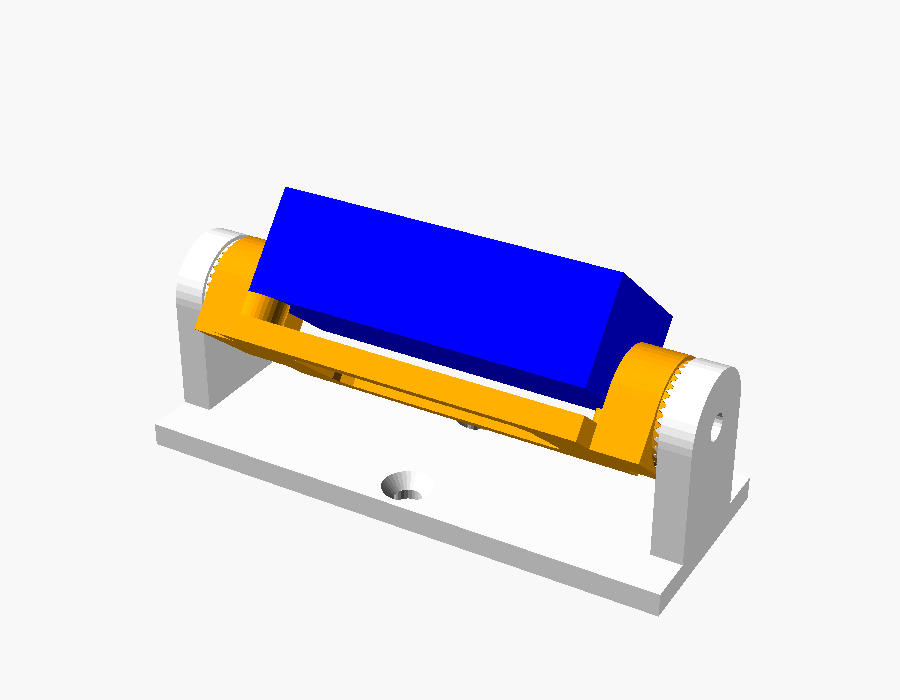
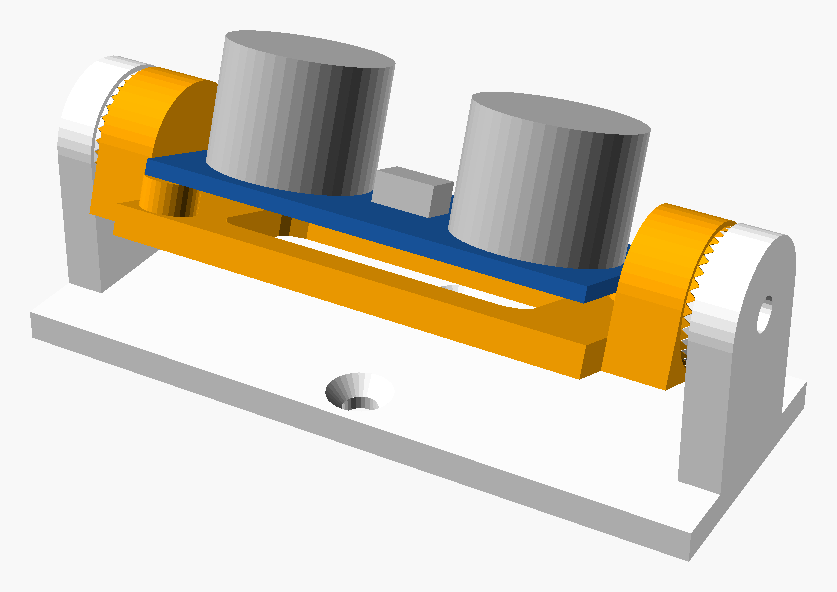
soportes sensores: README ES/EN with mounted, angle and print-orientation renders, hardware and assembly; main README links the mounts

diff --git a/hardware/soportes_sensores/README_es.md b/hardware/soportes_sensores/README_es.md
@@ -1,0 +1,76 @@
+# Soportes orientables para HC-SR04 y VL53L0X
+
+*In English: [README.md](README.md)*
+
+Soportes para fijar los sensores de ROS2D2 (5 HC-SR04 y 4 VL53L0X) al R2, en el faldón o en las patas,
+y poder **inclinar cada sensor después de montado**. Cada soporte son dos piezas: una **base** plana
+que se atornilla al R2 y una **cuna** que sujeta el sensor y gira entre las dos orejas de la base.
+
+| HC-SR04 | VL53L0X (GY-VL53L0XV2) |
+|---|---|
+| ![HC-SR04 montado](renders/montado_hc.png) | ![VL53L0X montado](renders/montado_vl.png) |
+
+## Cómo se orienta
+
+El eje es un tornillo M3 por cada lado, que pasa por la oreja y rosca en un inserto de la cuna. La oreja
+y la cuna tienen **dientes radiales** que encajan entre sí: el ángulo va a saltos de **10°**, de
+**−30° a +90°**, y no resbala con las vibraciones. Para cambiarlo, afloja los dos tornillos, gira la cuna
+y vuelve a apretar.
+
+- **0°**: el sensor mira de frente, perpendicular a la base.
+- **+90°**: el sensor queda paralelo a la base.
+- En todo el rango la cuna y el sensor no tocan la base.
+
+![Ángulos −30°, 0°, 45° y 90° (HC-SR04)](renders/angulos_hc.png)
+
+![Ángulos −30°, 0°, 45° y 90° (VL53L0X)](renders/angulos_vl.png)
+
+## Piezas
+
+| STL | Qué es | Cómo imprimir |
+|---|---|---|
+| `stl/base_hc.stl` | base del HC-SR04 (69,8 × 26,4 mm) | placa sobre la cama, orejas hacia arriba |
+| `stl/cuna_hc.stl` | cuna del HC-SR04 | placa sobre la cama |
+| `stl/base_vl.stl` | base del VL53L0X (49,8 × 26,4 mm) | placa sobre la cama, orejas hacia arriba |
+| `stl/cuna_vl.stl` | cuna del VL53L0X | placa sobre la cama |
+
+PETG, capa de 0,2 mm, boquilla de 0,4, sin soportes. Para los 9 sensores: 5 juegos `_hc` y 4 juegos `_vl`.
+
+| HC-SR04 | VL53L0X |
+|---|---|
+| ![Piezas HC-SR04](renders/piezas_hc.png) | ![Piezas VL53L0X](renders/piezas_vl.png) |
+
+## Tornillería (por soporte)
+
+| | HC-SR04 | VL53L0X |
+|---|---|---|
+| Eje | 2 × M3 × 10 + 2 insertos M3 en la cuna | 2 × M3 × 10 + 2 insertos M3 en la cuna |
+| Sensor a la cuna | 2 × M2 × 5 + 2 insertos M2 | 2 × M3 × 6 + 2 insertos M3 |
+| Base al R2 | 2 × M3 avellanados (largo según la superficie) | 2 × M3 avellanados |
+
+Los dos agujeros de la base están a 18 mm entre centros. El HC-SR04 va con los transductores hacia fuera y
+los pines por el borde de abajo; la cuna tiene una ventana para los componentes y los pines de detrás de
+la placa.
+
+## Montaje
+
+1. Mete los insertos con el soldador: los dos M3 de los laterales de la cuna (el eje) y los dos del sensor.
+2. Atornilla el sensor a la cuna.
+3. Atornilla la base al R2 con los dos M3 avellanados.
+4. Pon la cuna entre las orejas con los dientes encajados en el ángulo que quieras y mete los dos M3 × 10
+   del eje. Aprieta lo justo para que los dientes no salten.
+
+## Estado
+
+Diseño comprobado en el modelo (sin choques de −30° a +90°, dientes encajados en cada paso de 10°), pero
+**aún sin imprimir ni probar**: el ajuste de los dientes puede necesitar un retoque.
+
+## Generar los ficheros
+
+```bash
+openscad -o stl/base_hc.stl -D 'part="base"' -D 'sensor="hc"' soportes_sensores.scad
+openscad -o stl/cuna_hc.stl -D 'part="cuna"' -D 'sensor="hc"' soportes_sensores.scad
+openscad -o renders/montado_hc.png -D 'part="foto"' -D 'sensor="hc"' -D tilt=20 soportes_sensores.scad
+```
+
+Cambia `sensor="vl"` para el VL53L0X. Las vistas de los renders: `foto`, `angulos` y `piezas`.

diff --git a/hardware/soportes_sensores/README.md b/hardware/soportes_sensores/README.md
@@ -1,0 +1,74 @@
+# Tilting mounts for the HC-SR04 and the VL53L0X
+
+*En castellano: [README_es.md](README_es.md)*
+
+Mounts to fix ROS2D2's sensors (5 HC-SR04 and 4 VL53L0X) to the R2, on the skirt or on the legs, and
+**tilt each sensor after it is mounted**. Each mount is two parts: a flat **base** screwed to the R2 and a
+**cradle** that holds the sensor and pivots between the base's two ears.
+
+| HC-SR04 | VL53L0X (GY-VL53L0XV2) |
+|---|---|
+| ![HC-SR04 mounted](renders/montado_hc.png) | ![VL53L0X mounted](renders/montado_vl.png) |
+
+## How it tilts
+
+The axle is one M3 screw per side, through the ear into a heat-set insert in the cradle. The ear and the
+cradle carry **radial teeth** that mesh: the angle moves in **10°** steps, from **−30° to +90°**, and it does
+not slip with vibration. To change it, loosen both screws, turn the cradle and tighten again.
+
+- **0°**: the sensor looks straight out, perpendicular to the base.
+- **+90°**: the sensor lies parallel to the base.
+- Over the whole range the cradle and the sensor never touch the base.
+
+![Angles −30°, 0°, 45° and 90° (HC-SR04)](renders/angulos_hc.png)
+
+![Angles −30°, 0°, 45° and 90° (VL53L0X)](renders/angulos_vl.png)
+
+## Parts
+
+| STL | What it is | How to print |
+|---|---|---|
+| `stl/base_hc.stl` | HC-SR04 base (69.8 × 26.4 mm) | plate on the bed, ears up |
+| `stl/cuna_hc.stl` | HC-SR04 cradle | plate on the bed |
+| `stl/base_vl.stl` | VL53L0X base (49.8 × 26.4 mm) | plate on the bed, ears up |
+| `stl/cuna_vl.stl` | VL53L0X cradle | plate on the bed |
+
+PETG, 0.2 mm layers, 0.4 nozzle, no supports. For the 9 sensors: 5 `_hc` sets and 4 `_vl` sets.
+
+| HC-SR04 | VL53L0X |
+|---|---|
+| ![HC-SR04 parts](renders/piezas_hc.png) | ![VL53L0X parts](renders/piezas_vl.png) |
+
+## Hardware (per mount)
+
+| | HC-SR04 | VL53L0X |
+|---|---|---|
+| Axle | 2 × M3 × 10 + 2 M3 inserts in the cradle | 2 × M3 × 10 + 2 M3 inserts in the cradle |
+| Sensor to cradle | 2 × M2 × 5 + 2 M2 inserts | 2 × M3 × 6 + 2 M3 inserts |
+| Base to the R2 | 2 × M3 countersunk (length to suit the surface) | 2 × M3 countersunk |
+
+The base's two holes are 18 mm apart. The HC-SR04 goes with its transducers out and its pins along the
+bottom edge; the cradle has a window for the parts and pins on the back of the board.
+
+## Assembly
+
+1. Heat-set the inserts: the two M3 on the cradle's sides (the axle) and the sensor's two.
+2. Screw the sensor to the cradle.
+3. Screw the base to the R2 with the two countersunk M3.
+4. Set the cradle between the ears with the teeth meshed at the angle you want and fit the two M3 × 10 of
+   the axle. Tighten just enough for the teeth not to skip.
+
+## Status
+
+Checked on the model (no collisions from −30° to +90°, teeth meshed at every 10° step), but **not printed
+or tested yet**: the teeth's fit may need a tweak.
+
+## Generating the files
+
+```bash
+openscad -o stl/base_hc.stl -D 'part="base"' -D 'sensor="hc"' soportes_sensores.scad
+openscad -o stl/cuna_hc.stl -D 'part="cuna"' -D 'sensor="hc"' soportes_sensores.scad
+openscad -o renders/montado_hc.png -D 'part="foto"' -D 'sensor="hc"' -D tilt=20 soportes_sensores.scad
+```
+
+Set `sensor="vl"` for the VL53L0X. The render views: `foto`, `angulos` and `piezas`.

diff --git a/README.md b/README.md
@@ -63,6 +63,13 @@ The Raspberry Pi, the Pico sensor board and the 24 → 5 V converter go in a 3D-
 
 <a href="hardware/caja_ros2_rack"><img src="hardware/caja_ros2_rack/montaje/img/montada_led.png" alt="The ROS2D2 rack box, LED wall" width="480"></a>
 
+### Sensor mounts
+
+Tilting mounts for the HC-SR04 and the VL53L0X, adjustable in 10° steps from −30° to +90°:
+[`hardware/soportes_sensores`](hardware/soportes_sensores).
+
+<a href="hardware/soportes_sensores"><img src="hardware/soportes_sensores/renders/montado_hc.png" alt="HC-SR04 tilting mount" width="300"></a>
+
 ## Packages (`ros2_ws/src`)
 
 | Package | Node | What it does |
